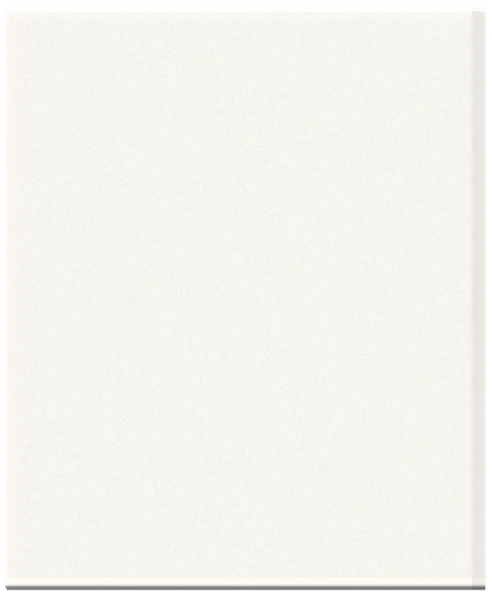
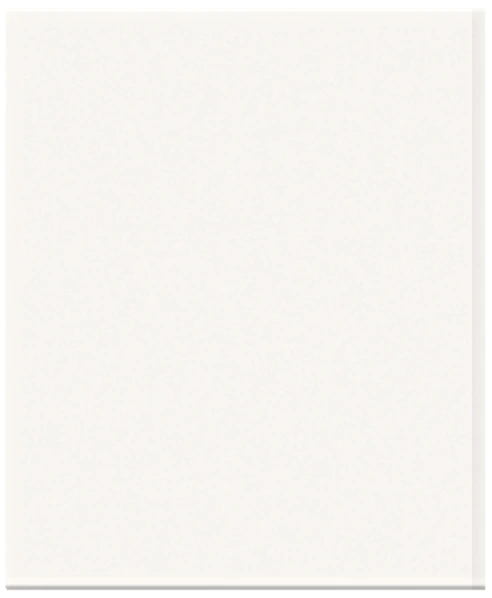
Versione 182: un solo carattere, pulsanti a pillola con la palette della cucina, «Il mio menu» con poche scritte, Polaroid sparse con foto quadrata

Changed region(s): [[0.0, 0.9632, 1.0, 0.9933]]

diff --git a/www/index.html b/www/index.html
@@ -18,12 +18,12 @@ if(!app&&!L.search&&!L.hash&&!mine&&matchMedia('(min-width:900px)').matches&&!se
 // colore della barra di stato coerente con il tema (scuro predefinito; «Automatico» segue il sistema)
 function themeColor(){const t=document.documentElement.dataset.theme||(matchMedia("(prefers-color-scheme:dark)").matches?"dark":"light");document.getElementById("themeColor").content=t==="dark"?"#15120e":"#f7f2ea"}themeColor();matchMedia("(prefers-color-scheme:dark)").addEventListener("change",themeColor);</script>
 <link rel="preconnect" href="https://fonts.googleapis.com"><link rel="preconnect" href="https://fonts.gstatic.com" crossorigin>
-<link href="https://fonts.googleapis.com/css2?family=Fraunces:opsz,wght@9..144,600;9..144,700&family=Inter:wght@400;500;600;700&family=Nunito:wght@400;600;700;800;900&family=Caveat:wght@500;600;700&display=swap" rel="stylesheet">
+<link href="https://fonts.googleapis.com/css2?family=Nunito:wght@400;600;700;800;900&family=Caveat:wght@500;600;700&display=swap" rel="stylesheet">
 <style>
 /* ---------- Tema: cucina italiana calda (terracotta, crema, oliva); chiaro e scuro automatici ---------- */
 :root{--bg:#f7f2ea;--bg2:#efe7da;--card:#fffdf9;--fg:#2a231d;--mut:#8a7e71;--acc:#c2502f;--acc2:#e9a23b;--ok:#5f7a35;--bd:#e8dfd1;--star:#e0a526;
-  --sh:0 1px 2px #2a231d10,0 6px 20px #2a231d0d;--sh2:0 10px 30px #2a231d26;--r:18px;--serif:'Fraunces',Georgia,'Times New Roman',serif;
-  --sans:'Inter',system-ui,-apple-system,'Segoe UI',Roboto,sans-serif;color-scheme:light}
+  --sh:0 1px 2px #2a231d10,0 6px 20px #2a231d0d;--sh2:0 10px 30px #2a231d26;--r:18px;--serif:'Nunito',ui-rounded,system-ui,sans-serif;
+  --sans:'Nunito',ui-rounded,system-ui,sans-serif;color-scheme:light}
 /* Stile Trattoria (tovaglia a quadretti): solo in modalità chiara */
 :root[data-style=trattoria]{--bg:#fbf5f1;--bg2:#fbece9;--card:#ffffff;--fg:#2b1b18;--mut:#86706a;--acc:#d6362b;--acc2:#e9a23b;--ok:#4f7a2a;--bd:#f0dcd8;
   --sh:0 1px 2px #5a1a1414,0 6px 18px #5a1a1412;--sh2:0 12px 30px #5a1a1426;
@@ -39,7 +39,7 @@ function themeColor(){const t=document.documentElement.dataset.theme||(matchMedi
   --sh:0 1px 2px #2b242012,0 10px 24px #2b24201a;--sh2:0 16px 36px #2b242030;--serif:'Nunito',ui-rounded,system-ui,sans-serif;--sans:'Nunito',ui-rounded,system-ui,sans-serif;
   --hand:'Caveat','Bradley Hand','Segoe Print',cursive;--pattern:none;color-scheme:light}
 :root[data-style=rivista]{--bg:#f7f2ea;--bg2:#efe6da;--card:#fffdf9;--fg:#2a211c;--mut:#8a7c70;--acc:#c2502f;--acc2:#e9a23b;--ok:#3f7a2e;--bd:#e8ddcf;--star:#e0a526;
-  --sh:0 1px 2px #2a211c12,0 8px 22px #3c230f1c;--sh2:0 16px 34px #3c230f30;--serif:'Fraunces',Georgia,serif;--sans:'Nunito',ui-rounded,system-ui,sans-serif;--pattern:none;color-scheme:light}
+  --sh:0 1px 2px #2a211c12,0 8px 22px #3c230f1c;--sh2:0 16px 34px #3c230f30;--serif:'Nunito',ui-rounded,system-ui,sans-serif;--sans:'Nunito',ui-rounded,system-ui,sans-serif;--pattern:none;color-scheme:light}
 *{box-sizing:border-box;-webkit-tap-highlight-color:transparent}
 html{font:-apple-system-body;font-family:var(--sans);-webkit-text-size-adjust:100%;text-size-adjust:100%;overflow-x:clip} /* su iPhone il testo segue «Dimensione testo» delle Impostazioni; tutte le misure sotto sono in rem, così l'interfaccia cresce insieme */
 body{margin:0;overflow-x:clip;font-family:var(--sans);background:var(--bg);background-image:var(--pattern,none);background-attachment:fixed;color:var(--fg);padding-bottom:calc(5.6rem + env(safe-area-inset-bottom));line-height:1.45}
@@ -871,6 +871,28 @@ details summary{cursor:pointer}
 :root[data-sito] .sPol.p2,:root[data-sito] .sSide .sPol.s2{border-image-source:url(casa/polaroid-3.webp)}
 :root[data-sito] .sPol .foto{box-shadow:inset 0 0 0 1px rgba(0,0,0,.18)}
 :root[data-sito] .sPol .fis{margin-top:-14px}
+/* come vere Polaroid (v182): foto quadrata, titolo scritto a pennarello sul bordo bianco, bordi un po' più larghi */
+:root[data-sito] :is(.list,.vgrid,.hscroll)>.item{border-width:16px 16px 14px;border-image-width:16px 16px 14px}
+:root[data-sito] :is(.list,.vgrid,.hscroll)>.item .thumb{aspect-ratio:1;border-radius:0!important;box-shadow:none}
+:root[data-sito] :is(.list,.vgrid,.hscroll)>.item .thumb img,:root[data-sito] .sPol .foto{border-radius:0!important}
+:root[data-sito] :is(.list,.vgrid,.hscroll)>.item{align-self:start}
+:root[data-sito] :is(.list,.vgrid,.hscroll)>.item .b{padding:7px 2px 0;gap:1px;flex:none}
+:root[data-sito] :is(.list,.vgrid,.hscroll)>.item h3{font-family:var(--hand);font-weight:700;font-size:1.38rem;line-height:.98;color:#2a2622;letter-spacing:0}
+:root[data-sito] :is(.list,.vgrid,.hscroll)>.item .facts{font-size:.7rem;flex-wrap:nowrap;gap:0 8px;white-space:nowrap;overflow:hidden;line-height:1.5}
+:root[data-sito] :is(.list,.vgrid,.hscroll)>.item .cat{font-size:.62rem;padding:3px 8px}
+/* sparse come foto sul tavolo: inclinate un po' da una parte e un po' dall'altra, con piccoli dislivelli */
+:root[data-sito] :is(.list,.vgrid,.hscroll)>.item:nth-child(7n+1){transform:rotate(-2.4deg) translateY(6px)}
+:root[data-sito] :is(.list,.vgrid,.hscroll)>.item:nth-child(7n+2){transform:rotate(1.9deg) translateY(-5px)}
+:root[data-sito] :is(.list,.vgrid,.hscroll)>.item:nth-child(7n+3){transform:rotate(-1.1deg) translateY(11px)}
+:root[data-sito] :is(.list,.vgrid,.hscroll)>.item:nth-child(7n+4){transform:rotate(2.7deg) translateY(2px)}
+:root[data-sito] :is(.list,.vgrid,.hscroll)>.item:nth-child(7n+5){transform:rotate(-1.9deg) translateY(-7px)}
+:root[data-sito] :is(.list,.vgrid,.hscroll)>.item:nth-child(7n+6){transform:rotate(1.3deg) translateY(8px)}
+:root[data-sito] :is(.list,.vgrid,.hscroll)>.item:nth-child(7n){transform:rotate(-2.9deg) translateY(0)}
+:root[data-sito] :is(.list,.vgrid,.hscroll)>.item{transition:transform .25s,filter .25s}
+:root[data-sito] :is(.list,.vgrid,.hscroll)>.item:hover{transform:rotate(0) translateY(-6px) scale(1.02);z-index:4}
+/* foto grandi del Ricettario: lo zoom resta dentro la foto e non copre il bordo bianco (la foto ingrandita si ritaglia di quanto cresce) */
+:root[data-sito] .vtile>img{transition:transform .6s,clip-path .6s;clip-path:inset(0)}
+:root[data-sito] .vtile:hover>img{transform:scale(1.05);clip-path:inset(2.39%)}
 :root[data-sito] .sPol::after{content:'';position:absolute;left:0;right:0;top:0;aspect-ratio:1;pointer-events:none;box-shadow:inset 0 0 0 1px rgba(0,0,0,.18),inset 1px 2px 3px rgba(0,0,0,.3);background:linear-gradient(125deg,rgba(255,255,255,.2),rgba(255,255,255,0) 40%)}
 :root[data-sito] .vgrid{gap:34px 26px;padding-top:10px}
 :root[data-sito] .occh{margin:0 0 6px;font-weight:800;font-size:13px;letter-spacing:.14em;text-transform:uppercase;color:#3f7a2e}
@@ -993,6 +1015,40 @@ details summary{cursor:pointer}
   html:root:not([data-sito]) header .top .icon.on{color:#fff;box-shadow:0 0 0 3px color-mix(in srgb,var(--hc) 40%,transparent),inset 0 -3px 0 #0002}
   html:root:not([data-sito]) .cupDot{background:#fff;border-color:var(--hc)}
 }
+
+/* ===== Coerenza grafica (v182): un solo carattere per testi e titoli (Nunito), Fredoka su barra e pulsanti, Caveat solo per la scrittura a mano.
+   Pulsanti tutti a pillola con la palette della cucina: pieno pomodoro = azione principale, vuoto crema con bordo = le altre.
+   Non toccano la barra in basso né le icone della testata, e nemmeno i pulsanti colorati della scheda ricetta (v176) ===== */
+:root{--kb2:var(--k-bb);--kt2:var(--k-bb)}
+@media (prefers-color-scheme:dark){:root:not([data-theme=light]):not([data-style=rivista]):not([data-style=quaderno]){--kb2:var(--k-to);--kt2:var(--fg)}}
+:root[data-theme=dark]:not([data-style=rivista]):not([data-style=quaderno]){--kb2:var(--k-to);--kt2:var(--fg)}
+@media (min-width:900px){:root[data-sito]:root[data-sito]{--kb2:var(--k-bb);--kt2:var(--k-bb);--k-in:#fff7ef}}
+:root:not(#_) .btn:not(.cookBtn):not(.dacts *){font-family:'Fredoka',var(--sans);font-weight:600;letter-spacing:.01em;border-radius:999px;border:3px solid var(--kb2);background:var(--k-in);color:var(--kt2);box-shadow:none;min-height:2.9rem;padding:7px 18px;line-height:1.15}
+:root:not(#_) .btn.pri:not(.cookBtn):not(.dacts *),:root:not(#_) .cbtn,:root:not(#_) .fab{font-family:'Fredoka',var(--sans);font-weight:600;border-radius:999px;border:3px solid var(--k-po);background:var(--k-po);color:#fff;box-shadow:none}
+:root:not(#_) .btn.danger:not(.dacts *){border-color:var(--k-po);color:var(--k-po)}
+:root:not(#_) .btn:not(.dacts *):hover,:root:not(#_) .cbtn:hover,:root:not(#_) .fab:hover{filter:brightness(.96)}
+:root:not(#_) .btn:not(.dacts *):active,:root:not(#_) .cbtn:active,:root:not(#_) .fab:active{transform:translateY(1px)}
+:root:not(#_) .chip{font-family:'Fredoka',var(--sans);font-weight:500;border-radius:999px;border:2px solid var(--k-to);background:var(--k-in);color:var(--kt2)}
+:root:not(#_) .chip.on{background:var(--k-po);border-color:var(--k-po);color:#fff}
+/* scelte: ogni voce è un pulsante a pillola, quella scelta è piena */
+:root:not(#_) .seg{display:flex;flex-wrap:wrap;gap:8px;background:none;padding:0;border-radius:0}
+:root:not(#_) .seg label{flex:1 1 auto}
+:root:not(#_) .seg span{font-family:'Fredoka',var(--sans);font-weight:600;border:3px solid var(--kb2);border-radius:999px;background:var(--k-in);color:var(--kt2);padding:10px 14px;white-space:nowrap;box-shadow:none}
+:root:not(#_) .seg input:checked+span{background:var(--k-po);border-color:var(--k-po);color:#fff;box-shadow:none}
+:root:not(#_) .checks{gap:8px}
+:root:not(#_) .checks label{position:relative;font-family:'Fredoka',var(--sans);font-weight:600;font-size:.95rem;border:3px solid var(--kb2);border-radius:999px;background:var(--k-in);color:var(--kt2);padding:9px 14px}
+:root:not(#_) .checks label:has(input:checked){background:var(--k-po);border-color:var(--k-po);color:#fff}
+:root:not(#_) .checks input{position:absolute;opacity:0;pointer-events:none}
+/* Il mio menu: domande corte, una cosa per volta, niente spiegazioni */
+#budget .bhead h2{font-weight:900}
+.bform .step h3{font-size:1.5rem;font-weight:900;margin:0 0 14px}
+.bform .step p>b{font-size:1.05rem;font-weight:800}
+.bform .step label{font-weight:700}
+.bform .step .seg span{font-size:1.05rem;padding:12px 16px}
+/* Nuova ricetta: cinque pulsanti chiari, senza righe di spiegazione */
+:root:not(#_) .srcCard{border:3px solid var(--kb2);border-radius:999px;background:var(--k-in);color:var(--kt2);box-shadow:none;padding:13px 20px;text-align:left}
+:root:not(#_) .srcCard b{font-family:'Fredoka',var(--sans);font-weight:600;font-size:1.1rem}
+:root:not(#_) .srcCard span{display:none}
 </style>
 </head>
 <body>
@@ -1026,37 +1082,37 @@ details summary{cursor:pointer}
 <section id="libro" hidden><div id="libBody"></div></section>
 <section id="chats" hidden><div id="chatsBody"></div></section>
 <section id="budget" hidden>
-  <div class="bhead"><h2>Il menu giusto per il tuo budget</h2><p>Rispondi a sei domande: preparo un menu con i piatti italiani di tutti i giorni, bilanciato e con frutta e verdura di stagione. Alla fine puoi variarlo quante volte vuoi.</p></div>
+  <div class="bhead"><h2>Il mio menu</h2></div>
   <form id="bForm" class="bform">
     <div class="wiz"><button type="button" class="icon" id="wTopBack" aria-label="Indietro" style="visibility:hidden">←</button><div class="wmid"><div class="wdots" id="wDots"></div><div class="meta" id="wStep"></div></div><button type="button" class="icon" id="wTopX" aria-label="Annulla" style="visibility:hidden">✕</button></div>
     <section class="step" data-s="0"><h3>Che menu vuoi?</h3>
-      <div class="seg"><label><input type="radio" name="mode" value="week" checked><span>Tutta la settimana</span></label><label><input type="radio" name="mode" value="meal"><span>Un solo pasto</span></label></div>
-      <p class="meta" id="wHint0">Settimana: pranzi e cene da lunedì a domenica, bilanciati tra loro. Un solo pasto: un menu completo per oggi.</p>
-      <div id="bBreakL" style="margin-top:10px"><p style="margin:0 0 6px"><b>Vuoi includere la colazione?</b></p>
+      <div class="seg"><label><input type="radio" name="mode" value="week" checked><span>La settimana</span></label><label><input type="radio" name="mode" value="meal"><span>Un pasto</span></label></div>
+      <p class="meta" id="wHint0" hidden></p>
+      <div id="bBreakL" style="margin-top:10px"><p style="margin:0 0 6px"><b>Colazione</b></p>
         <div class="seg wrap"><label><input type="radio" name="breakfast" value="no" checked><span>No</span></label><label><input type="radio" name="breakfast" value="classica"><span>Classica</span></label><label><input type="radio" name="breakfast" value="dolce"><span>Dolce</span></label><label><input type="radio" name="breakfast" value="salata"><span>Salata</span></label><label><input type="radio" name="breakfast" value="mista"><span>Varia</span></label></div>
-        <p class="meta" style="margin:6px 0 0">Classica: caffellatte e biscotti, cappuccino e cornetto, fette biscottate… Dolce: anche yogurt, porridge, pane e miele. Salata: uova, toast, pane e formaggio. Varia: un giorno dolce e uno salata. Le colazioni sono anche nel Ricettario, sezione «Colazione».</p></div>
-      <div style="margin-top:10px"><p style="margin:0 0 6px"><b>Pane a tavola?</b></p>
-        <div class="seg"><label><input type="radio" name="bread" value="dinner" checked><span>Solo a cena</span></label><label><input type="radio" name="bread" value="all"><span>A ogni pasto</span></label><label><input type="radio" name="bread" value="no"><span>No</span></label></div></div></section>
-    <section class="step" data-s="1" hidden><h3>Quanto vuoi spendere e per quante persone?</h3>
-      <div class="two"><label><span id="bLbl">Budget settimanale (€)</span><input name="budget" type="number" min="1" step="0.5" inputmode="decimal" placeholder="es. 60"></label>
+        </div>
+      <div style="margin-top:10px"><p style="margin:0 0 6px"><b>Pane</b></p>
+        <div class="seg"><label><input type="radio" name="bread" value="dinner" checked><span>A cena</span></label><label><input type="radio" name="bread" value="all"><span>Sempre</span></label><label><input type="radio" name="bread" value="no"><span>No</span></label></div></div></section>
+    <section class="step" data-s="1" hidden><h3>Budget e persone</h3>
+      <div class="two"><label><span id="bLbl">Budget della settimana (€)</span><input name="budget" type="number" min="1" step="0.5" inputmode="decimal" placeholder="es. 60"></label>
       <label>Persone<input name="people" type="number" min="1" max="20" value="2" inputmode="numeric"></label></div>
-      <p class="meta">Il costo è calcolato con i prezzi medi della tua zona; frutta, pane e contorni compresi.</p></section>
-    <section class="step" data-s="2" hidden><h3>Quando cucini e quanto tempo hai?</h3>
-      <label id="bMealsL">Pasti da preparare<div class="checks"><label><input type="checkbox" name="lunch" checked>Pranzo</label><label><input type="checkbox" name="dinner" checked>Cena</label></div></label>
-      <div class="two"><label><span id="bTimeL">Tempo per cucinare a pasto (lun–ven)</span><select name="tWeek"></select></label>
-      <label id="bTimeEndL">Tempo a pasto (sab–dom)<select name="tEnd"></select></label></div>
-      <div class="checks"><label><input type="checkbox" name="easy">Solo ricette facili</label><label><input type="checkbox" name="ahead">Posso preparare il giorno prima (lievitazioni, marinature, ammollo)</label></div></section>
-    <section class="step" data-s="3" hidden><h3>Vanno bene anche cibi già pronti?</h3>
-      <div class="seg"><label><input type="radio" name="ready" value="no" checked><span>No, solo cucinato</span></label><label><input type="radio" name="ready" value="some"><span>Sì, quando il tempo è poco</span></label><label><input type="radio" name="ready" value="yes"><span>Sì, volentieri</span></label></div>
-      <p class="meta">Surgelati, freschi confezionati (lasagne, ravioli, zuppe in vaschetta), in scatola e gastronomia del supermercato: costano un po' di più e si preparano in pochi minuti. «Quando il tempo è poco» li usa solo nei pasti con meno tempo per cucinare, al massimo tre a settimana.</p></section>
-    <section class="step" data-s="4" hidden><h3>Diete, intolleranze e allergie</h3>
+      </section>
+    <section class="step" data-s="2" hidden><h3>Pasti e tempo</h3>
+      <label id="bMealsL">Pasti<div class="checks"><label><input type="checkbox" name="lunch" checked>Pranzo</label><label><input type="checkbox" name="dinner" checked>Cena</label></div></label>
+      <div class="two"><label><span id="bTimeL">Tempo, lun–ven</span><select name="tWeek"></select></label>
+      <label id="bTimeEndL">Tempo, sab–dom<select name="tEnd"></select></label></div>
+      <div class="checks"><label><input type="checkbox" name="easy">Solo facili</label><label><input type="checkbox" name="ahead">Anche il giorno prima</label></div></section>
+    <section class="step" data-s="3" hidden><h3>Cibi già pronti?</h3>
+      <div class="seg"><label><input type="radio" name="ready" value="no" checked><span>No</span></label><label><input type="radio" name="ready" value="some"><span>Se ho poco tempo</span></label><label><input type="radio" name="ready" value="yes"><span>Sì</span></label></div>
+      </section>
+    <section class="step" data-s="4" hidden><h3>Diete e allergie</h3>
       <div class="checks" id="bDiet"></div>
-      <label>Altri ingredienti da evitare (separati da virgola)<input name="avoid" placeholder="es. sedano, funghi, senape, kiwi"></label></section>
-    <section class="step" data-s="5" hidden><h3>Che cucina e in che periodo?</h3>
-      <label>Cucina<select name="cuisine"><option value="quotidiana">Italiana di tutti i giorni (consigliata)</option><option value="italiana">Italiana, anche piatti regionali rari</option><option value="mondo">Anche ricette dal mondo</option></select></label>
+      <label>Da evitare<input name="avoid" placeholder="es. sedano, funghi, senape, kiwi"></label></section>
+    <section class="step" data-s="5" hidden><h3>Cucina e periodo</h3>
+      <label>Cucina<select name="cuisine"><option value="quotidiana">Italiana di tutti i giorni</option><option value="italiana">Italiana, anche regionale</option><option value="mondo">Anche dal mondo</option></select></label>
       <div class="two"><label>Periodo<select name="month" id="bMonth"></select></label>
-      <label>Ricette da usare<select name="pool"><option value="all">Ricettario + le mie</option><option value="book">Solo ricettario</option><option value="mine">Solo le mie</option></select></label></div></section>
-    <div class="row" style="justify-content:space-between;gap:8px"><span style="display:flex;gap:6px;flex-wrap:wrap"><button type="button" class="btn" id="wBack">← Indietro</button> <button type="button" class="btn" id="wCancel" hidden>✕ Annulla</button></span><span><button type="button" class="btn pri" id="wNext">Avanti →</button><button class="btn pri" id="wGo" hidden>✨ Crea il menu</button></span></div>
+      <label>Ricette<select name="pool"><option value="all">Ricettario + le mie</option><option value="book">Solo ricettario</option><option value="mine">Solo le mie</option></select></label></div></section>
+    <div class="row" style="justify-content:space-between;gap:8px"><span style="display:flex;gap:6px;flex-wrap:wrap"><button type="button" class="btn" id="wBack">Indietro</button> <button type="button" class="btn" id="wCancel" hidden>Annulla</button></span><span><button type="button" class="btn pri" id="wNext">Avanti</button><button class="btn pri" id="wGo" hidden>Crea il menu</button></span></div>
   </form>
   <div id="bOut"></div>
 </section></main>
@@ -1974,7 +2030,7 @@ function embedOf(i){
 
 /* ---------- Dati aggiornati automaticamente sul sito ---------- */
 // Nell'APK i dati (ricettario, stagioni) arrivano dal sito, che GitHub aggiorna da solo ogni mese; la copia interna serve offline
-const APP_VERSION=181; // aumentare a ogni modifica dell'app: l'APK installato confronta con version.json del sito
+const APP_VERSION=182; // aumentare a ogni modifica dell'app: l'APK installato confronta con version.json del sito
 const SITE='https://gnamina.it/'; // dal 7/11/2026 il sito ha il suo dominio; il vecchio indirizzo ismirill.github.io/aggregatore-ricette/ rimanda qui
 const inApp=!!window.Capacitor||(location.hostname==='localhost'&&location.protocol==='https:');
 async function fetchData(name){
@@ -2575,8 +2631,8 @@ $('#wBack').onclick=$('#wTopBack').onclick=()=>showStep(wStep-1);
 $('#wCancel').onclick=$('#wTopX').onclick=()=>{const plan=load('budgetPlan',null);if(plan){budgetView(false);loadSeason().then(()=>showPlan(plan))}};
 // mostra il modulo (dal passo indicato) o il menu
 function budgetView(showForm,step=0){$('#bForm').hidden=!showForm;$('#bOut').hidden=showForm;if(showForm){showStep(step);const p=!!load('budgetPlan',null);$('#wCancel').hidden=!p;$('#wTopX').style.visibility=p?'visible':'hidden'}}
-function modeUI(){const w=$('#bForm').mode.value==='week';$('#bLbl').textContent=w?'Budget settimanale (€)':'Budget per il pasto (€)';$('#bMealsL').hidden=!w;
-  $('#bTimeEndL').hidden=!w;$('#bTimeL').textContent=w?'Tempo per cucinare a pasto (lun–ven)':'Tempo per cucinare';$('#bBreakL').hidden=!w}
+function modeUI(){const w=$('#bForm').mode.value==='week';$('#bLbl').textContent=w?'Budget della settimana (€)':'Budget del pasto (€)';$('#bMealsL').hidden=!w;
+  $('#bTimeEndL').hidden=!w;$('#bTimeL').textContent=w?'Tempo, lun–ven':'Tempo';$('#bBreakL').hidden=!w}
 
 // Tipo di proteina prevalente, per le regole settimanali
 function protein(r){

diff --git a/www/sw.js b/www/sw.js
@@ -1,4 +1,4 @@
-const C='ricette-v181',ASSETS=['./','./index.html','./manifest.webmanifest','./icon.svg','./icon-192.png','./icon-512.png','./logo.svg','./marchio.png','./fonts/fredoka.woff2','./ricettario.json','./contest.json','./stagioni.json','./immagini.json','./categorie.json','./collegate.json','./puglia.json','./mondo.json','./artusi.json','./libere.json','./quotidiani.json','./pronti.json','./avatar/0-f.jpg','./avatar/0-m.jpg','./avatar/1-f.jpg','./avatar/1-m.jpg','./avatar/2-f.jpg','./avatar/2-m.jpg','./avatar/3-f.jpg','./avatar/3-m.jpg','./avatar/4-f.jpg','./avatar/4-m.jpg','./casa/cuoca-scontornata.webp','./casa/cuoca-cucina.webp'];
+const C='ricette-v182',ASSETS=['./','./index.html','./manifest.webmanifest','./icon.svg','./icon-192.png','./icon-512.png','./logo.svg','./marchio.png','./fonts/fredoka.woff2','./ricettario.json','./contest.json','./stagioni.json','./immagini.json','./categorie.json','./collegate.json','./puglia.json','./mondo.json','./artusi.json','./libere.json','./quotidiani.json','./pronti.json','./avatar/0-f.jpg','./avatar/0-m.jpg','./avatar/1-f.jpg','./avatar/1-m.jpg','./avatar/2-f.jpg','./avatar/2-m.jpg','./avatar/3-f.jpg','./avatar/3-m.jpg','./avatar/4-f.jpg','./avatar/4-m.jpg','./casa/cuoca-scontornata.webp','./casa/cuoca-cucina.webp'];
 self.addEventListener('install',e=>{self.skipWaiting();e.waitUntil(caches.open(C).then(c=>c.addAll(ASSETS)))});
 self.addEventListener('activate',e=>e.waitUntil(caches.keys().then(k=>Promise.all(k.filter(x=>x!==C).map(x=>caches.delete(x)))).then(()=>self.clients.claim())));
 // Sempre dalla rete (senza cache HTTP per le pagine dell'app), con la copia salvata come riserva offline

diff --git a/CHANGELOG.md b/CHANGELOG.md
@@ -4,6 +4,16 @@ Ogni passo del lavoro, dal più recente. Sito, app Android (APK) e app iOS escon
 
 Gli aggiornamenti notturni automatici del ricettario (traduzioni, Artusi, foto) non sono elencati qui: si vedono nella cronologia dei commit come «Aggiornamento automatico ricettario e versione».
 
+## 2026-11-21
+
+- **Versione 182, un solo carattere, pulsanti tutti uguali, «Il mio menu» più semplice**
+  - **Caratteri:** Nunito per tutti i titoli e i testi, nell'app e nel sito; Fredoka solo su barra in basso, logo e pulsanti; Caveat solo per la scrittura a mano di Polaroid e fogli di quaderno. Tolti Fraunces e Inter (due caratteri in meno da scaricare). I modelli di stampa del Libro tengono i loro.
+  - **Pulsanti:** tutti a pillola con la palette della cucina: pieno rosso pomodoro per l'azione principale, crema con il bordo per le altre. Stessa forma per le scelte (prima caselle grigie), i filtri e le caselle da spuntare. Non toccati le icone in alto, la barra in basso e i pulsanti colorati dentro la scheda della ricetta.
+  - **«Il mio menu»:** titolo corto, via i paragrafi di spiegazione, domande di una o due parole («Colazione», «Pane», «Budget e persone», «Pasti e tempo», «Cibi già pronti?», «Diete e allergie», «Cucina e periodo»), risposte come pulsanti grandi. I passi restano sei e il menu creato non cambia.
+  - **«Nuova ricetta»:** cinque pulsanti senza le righe di spiegazione sotto.
+  - **Polaroid del sito da computer, dopo le osservazioni sulla 181:** foto quadrata con angoli vivi, parte bianca più corta, titolo scritto a mano, stampe un po' storte come foto sparse su un tavolo (si raddrizzano al passaggio del mouse); lo zoom delle foto grandi resta dentro la cornice e non monta più sul bordo bianco; filo del bordo più leggero (`www/casa/polaroid-1..3.webp`). Immagini in `docs/proposte-polaroid/`.
+  - Controllati «Il mio menu» (primi passi) e «Nuova ricetta» sul telefono, ricettario e menu sul sito; le altre pagine prendono le stesse regole ma non sono state guardate una per una, e le loro scritte non sono ancora state sfoltite.
+
 ## 2026-11-19
 
 - **Versione 181, Polaroid vere nel sito da computer**
